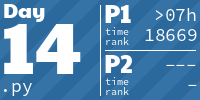
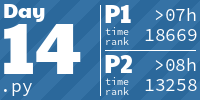
2023 - Day 14, part 2

Changed region(s): [[0.72, 0.78, 0.99, 0.93], [0.78, 0.57, 0.99, 0.72]]

diff --git a/ibidem/advent_of_code/y2023/test/test_dec14.py b/ibidem/advent_of_code/y2023/test/test_dec14.py
@@ -5,7 +5,7 @@ from collections import namedtuple
 import pytest
 
 from ibidem.advent_of_code.board import Board
-from ibidem.advent_of_code.y2023.dec14 import load, part1, part2, tilt_column, calculate_load
+from ibidem.advent_of_code.y2023.dec14 import load, part1, part2, tilt_column, calculate_load, run_cycle
 
 TestData = namedtuple('TestData', 'part1 part2 input')
 
@@ -69,3 +69,26 @@ class TestDec14():
     def test_calculate_load(self, column, expected):
         actual = calculate_load(column)
         assert actual == expected
+
+    def test_run_cycle(self, loaded):
+        loaded.grid = run_cycle(loaded.grid)
+        print("After 1 cycle")
+        loaded.print()
+        loaded.grid = run_cycle(loaded.grid)
+        print("After 2 cycles")
+        loaded.print()
+        loaded.grid = run_cycle(loaded.grid)
+        print("After 3 cycles")
+        loaded.print()
+        assert repr(loaded) == textwrap.dedent("""\
+                                .....#....
+                                ....#...O#
+                                .....##...
+                                ..O#......
+                                .....OOO#.
+                                .O#...O#.#
+                                ....O#...O
+                                .......OOO
+                                #...O###.O
+                                #.OOO#...O
+                                """)

diff --git a/ibidem/advent_of_code/y2023/dec14.py b/ibidem/advent_of_code/y2023/dec14.py
@@ -1,4 +1,6 @@
 #!/usr/bin/env python
+import numpy as np
+
 from ibidem.advent_of_code.board import Board
 from ibidem.advent_of_code.util import get_input_name
 
@@ -39,8 +41,33 @@ def part1(input: Board):
     return result
 
 
-def part2(input):
-    return None
+def run_cycle(grid):
+    for direction in ("N", "W", "S", "E"):
+        new_grid = grid.copy()
+        for x in range(grid.shape[1]):
+            column = grid[:, x]
+            new_column = tilt_column(column)
+            new_grid[:, x] = new_column
+        grid = np.rot90(new_grid, k=-1, axes=(0, 1))
+    return grid
+
+
+def part2(board):
+    grid = board.grid
+    configurations = {}
+    for i in range(1, 1_000_000_001):
+        grid = run_cycle(grid)
+        last_seen = configurations.get(grid.tobytes())
+        if last_seen is not None:
+            if (1_000_000_000 - i) % (i - last_seen) == 0:
+                break
+        configurations[grid.tobytes()] = i
+    result = 0
+    for x in range(grid.shape[1]):
+        column = grid[:, x]
+        total_load = calculate_load(column)
+        result += total_load
+    return result
 
 
 if __name__ == "__main__":
